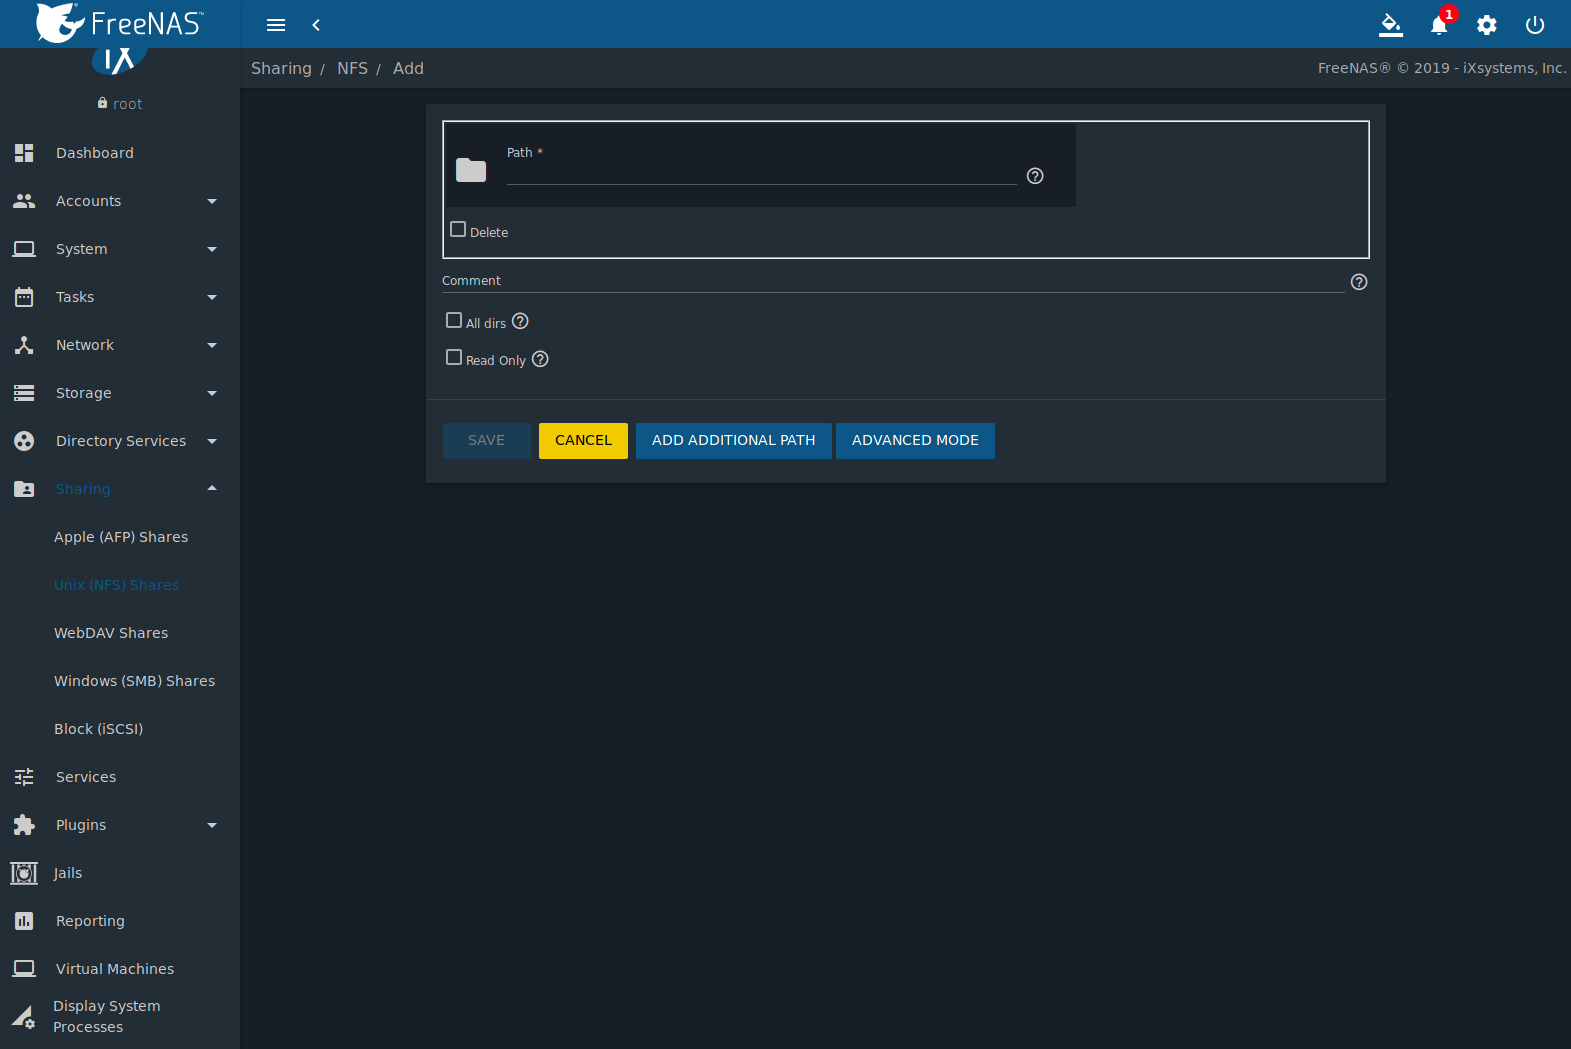
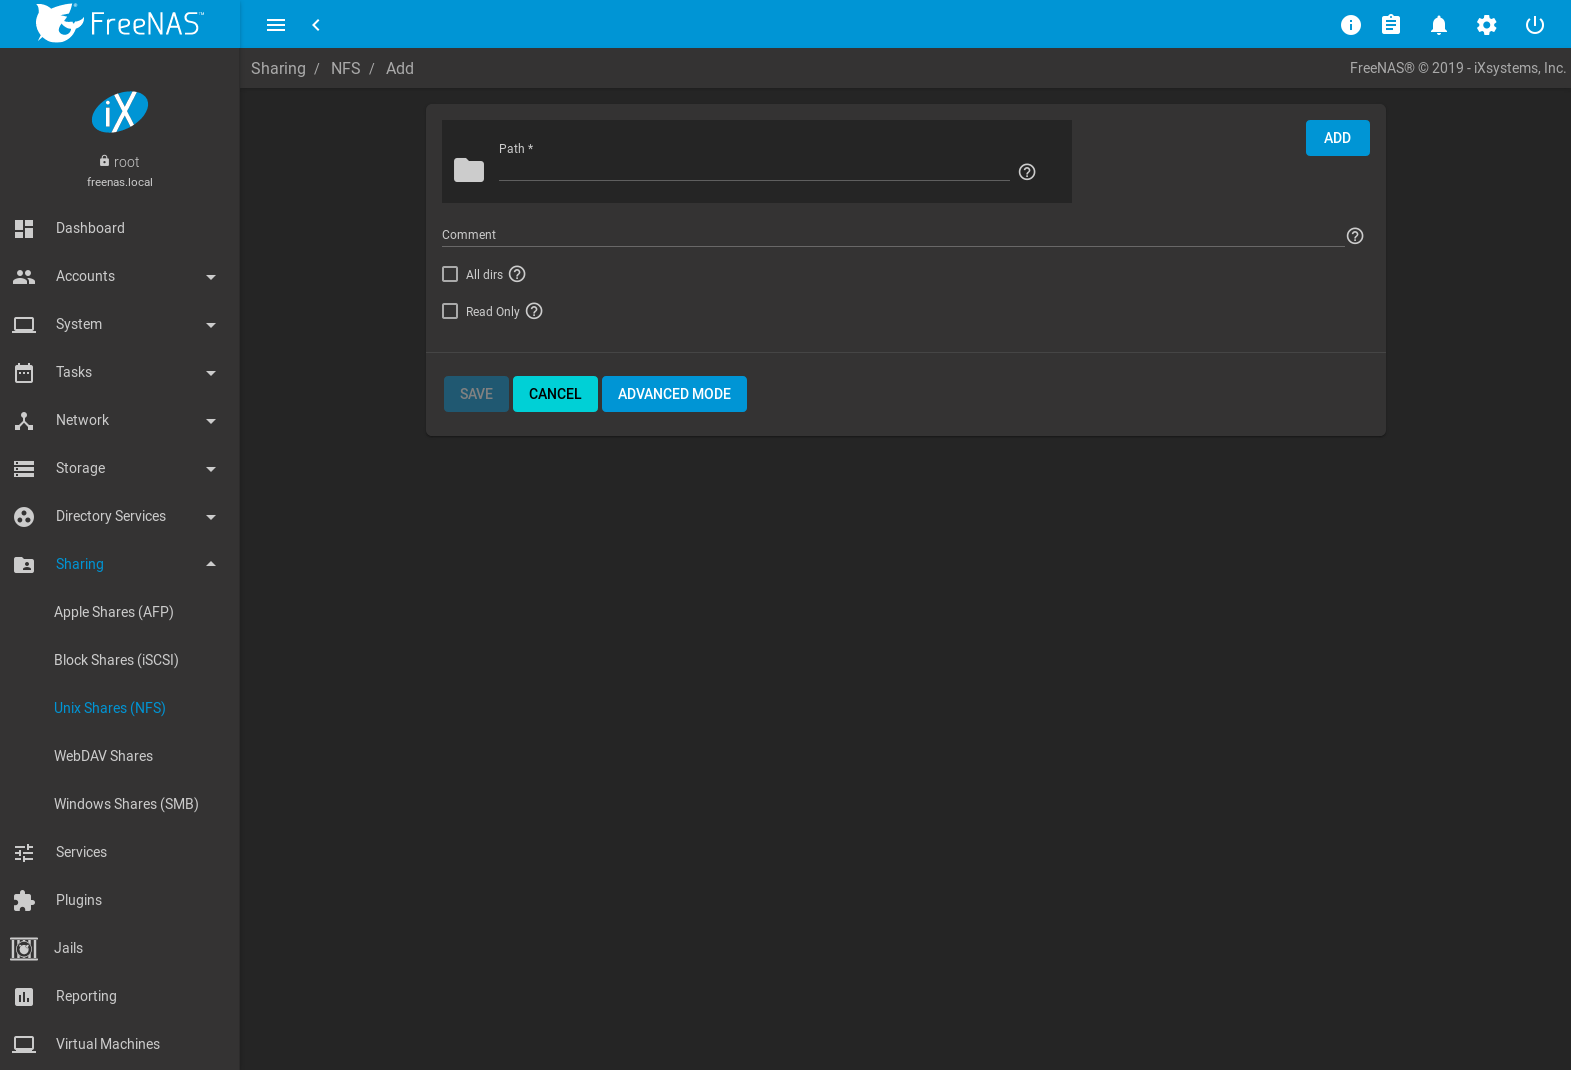
NAS-102306: Update NFS field descriptions - Compact NFS Share Options table - Update Path description to match updated UI - Update related images - HTML build test: no issues.

Changed region(s): [[0.0, 0.0, 1.0, 1.0], [0.8421, 0.2135, 0.8733, 0.2745]]

diff --git a/userguide/sharing.rst b/userguide/sharing.rst
@@ -433,49 +433,37 @@ see all settings.
    +--------------------+--------------+-------------+---------------------------------------------------------------------------------------------------+
    | Setting            | Value        | Advanced    | Description                                                                                       |
    |                    |              | Mode        |                                                                                                   |
-   |                    |              |             |                                                                                                   |
    +====================+==============+=============+===================================================================================================+
-   | Path               | browse       |             | :guilabel:`Browse` to the pool, dataset, or directory to be shared.                               |
-   |                    | button       |             | Click :guilabel:`Add extra Path` to add multiple directories to this share.                       |
-   |                    |              |             |                                                                                                   |
+   | Path               | browse       |             | Browse to the pool, dataset, or directory to be shared. Click :guilabel:`ADD` to specify multiple |
+   |                    | button       |             | paths.                                                                                            |
    +--------------------+--------------+-------------+---------------------------------------------------------------------------------------------------+
    | Comment            | string       |             | Text describing the share. Typically used to name the share.                                      |
    |                    |              |             | If left empty, this shows the :guilabel:`Path` entries of the share.                              |
-   |                    |              |             |                                                                                                   |
    +--------------------+--------------+-------------+---------------------------------------------------------------------------------------------------+
    | All dirs           | checkbox     |             | Allow the client to also mount any subdirectories of the selected pool or dataset.                |
-   |                    |              |             |                                                                                                   |
    +--------------------+--------------+-------------+---------------------------------------------------------------------------------------------------+
    | Read only          | checkbox     |             | Prohibit writing to the share.                                                                    |
-   |                    |              |             |                                                                                                   |
    +--------------------+--------------+-------------+---------------------------------------------------------------------------------------------------+
    | Quiet              | checkbox     | ✓           | Restrict some syslog diagnostics to avoid some error messages. See                                |
    |                    |              |             | `exports(5) <https://www.freebsd.org/cgi/man.cgi?query=exports>`__ for examples.                  |
-   |                    |              |             |                                                                                                   |
    +--------------------+--------------+-------------+---------------------------------------------------------------------------------------------------+
    | Authorized         | string       | ✓           | Space-delimited list of allowed networks in network/mask CIDR notation.                           |
    | networks           |              |             | Example: *1.2.3.0/24*. Leave empty to allow all.                                                  |
-   |                    |              |             |                                                                                                   |
    +--------------------+--------------+-------------+---------------------------------------------------------------------------------------------------+
    | Authorized Hosts   | string       | ✓           | Space-delimited list of allowed IP addresses or hostnames.                                        |
    | and IP addresses   |              |             | Leave empty to allow all.                                                                         |
-   |                    |              |             |                                                                                                   |
    +--------------------+--------------+-------------+---------------------------------------------------------------------------------------------------+
    | Maproot User       | drop-down    | ✓           | When a user is selected, the *root* user is limited to permissions of that user.                  |
    |                    | menu         |             |                                                                                                   |
-   |                    |              |             |                                                                                                   |
    +--------------------+--------------+-------------+---------------------------------------------------------------------------------------------------+
    | Maproot Group      | drop-down    | ✓           | When a group is selected, the *root* user is also limited to permissions of that group.           |
    |                    | menu         |             |                                                                                                   |
-   |                    |              |             |                                                                                                   |
    +--------------------+--------------+-------------+---------------------------------------------------------------------------------------------------+
    | Mapall User        | drop-down    | ✓           | All clients use the permissions of the specified user.                                            |
    |                    | menu         |             |                                                                                                   |
-   |                    |              |             |                                                                                                   |
    +--------------------+--------------+-------------+---------------------------------------------------------------------------------------------------+
    | Mapall Group       | drop-down    | ✓           | All clients use the permissions of the specified group.                                           |
    |                    | menu         |             |                                                                                                   |
-   |                    |              |             |                                                                                                   |
    +--------------------+--------------+-------------+---------------------------------------------------------------------------------------------------+
    | Security           | selection    | ✓           | Only appears if :guilabel:`Enable NFSv4` is enabled in                                            |
    |                    |              |             | :menuselection:`Services --> NFS`.                                                                |
@@ -483,8 +471,8 @@ see all settings.
    |                    |              |             | *krb5i* (authentication and integrity), or *krb5p* (authentication and privacy).                  |
    |                    |              |             | If multiple security mechanisms are added to the :guilabel:`Selected` column using the arrows,    |
    |                    |              |             | use the :guilabel:`Up` or :guilabel:`Down` buttons to list in order of preference.                |
-   |                    |              |             |                                                                                                   |
    +--------------------+--------------+-------------+---------------------------------------------------------------------------------------------------+
+
 
 Go to
 :menuselection:`Sharing --> Unix (NFS)`
